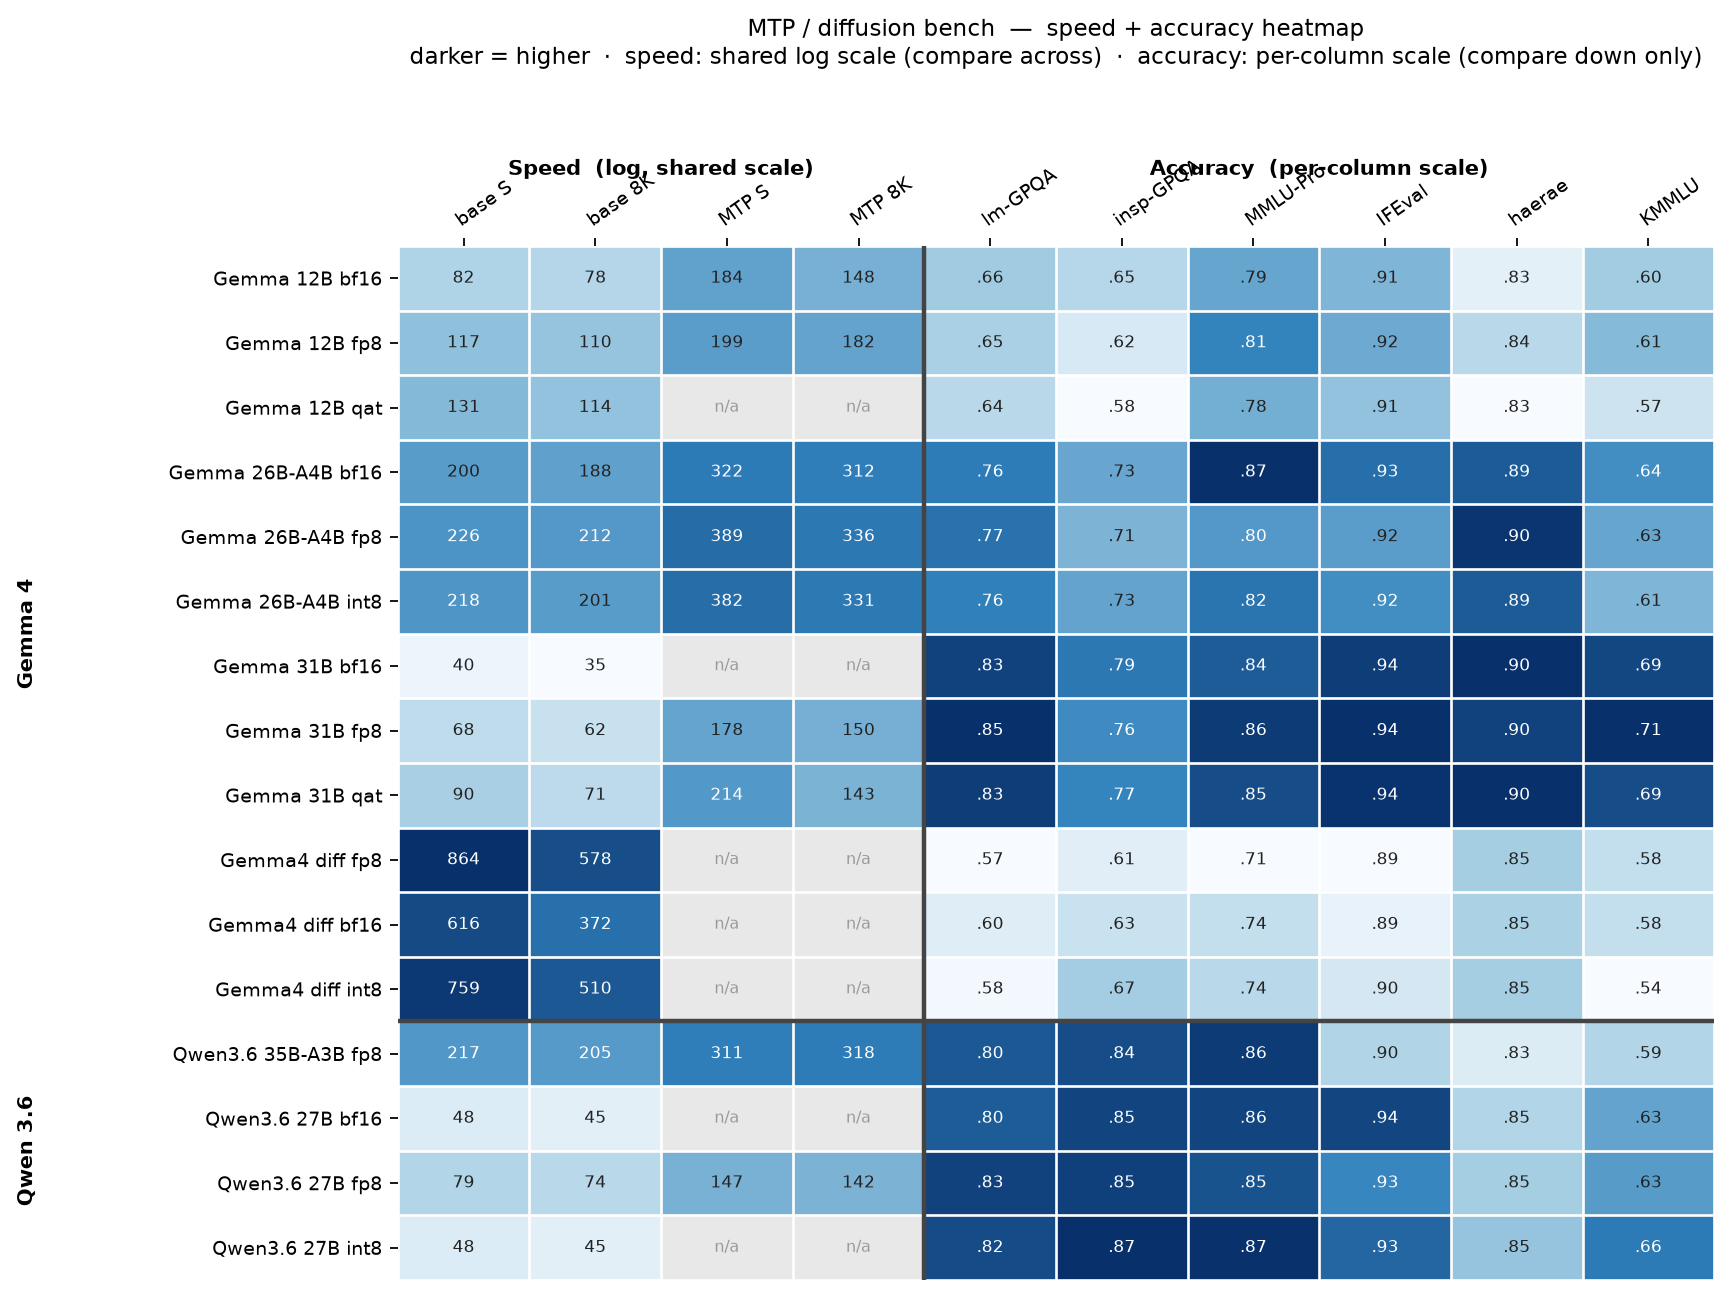
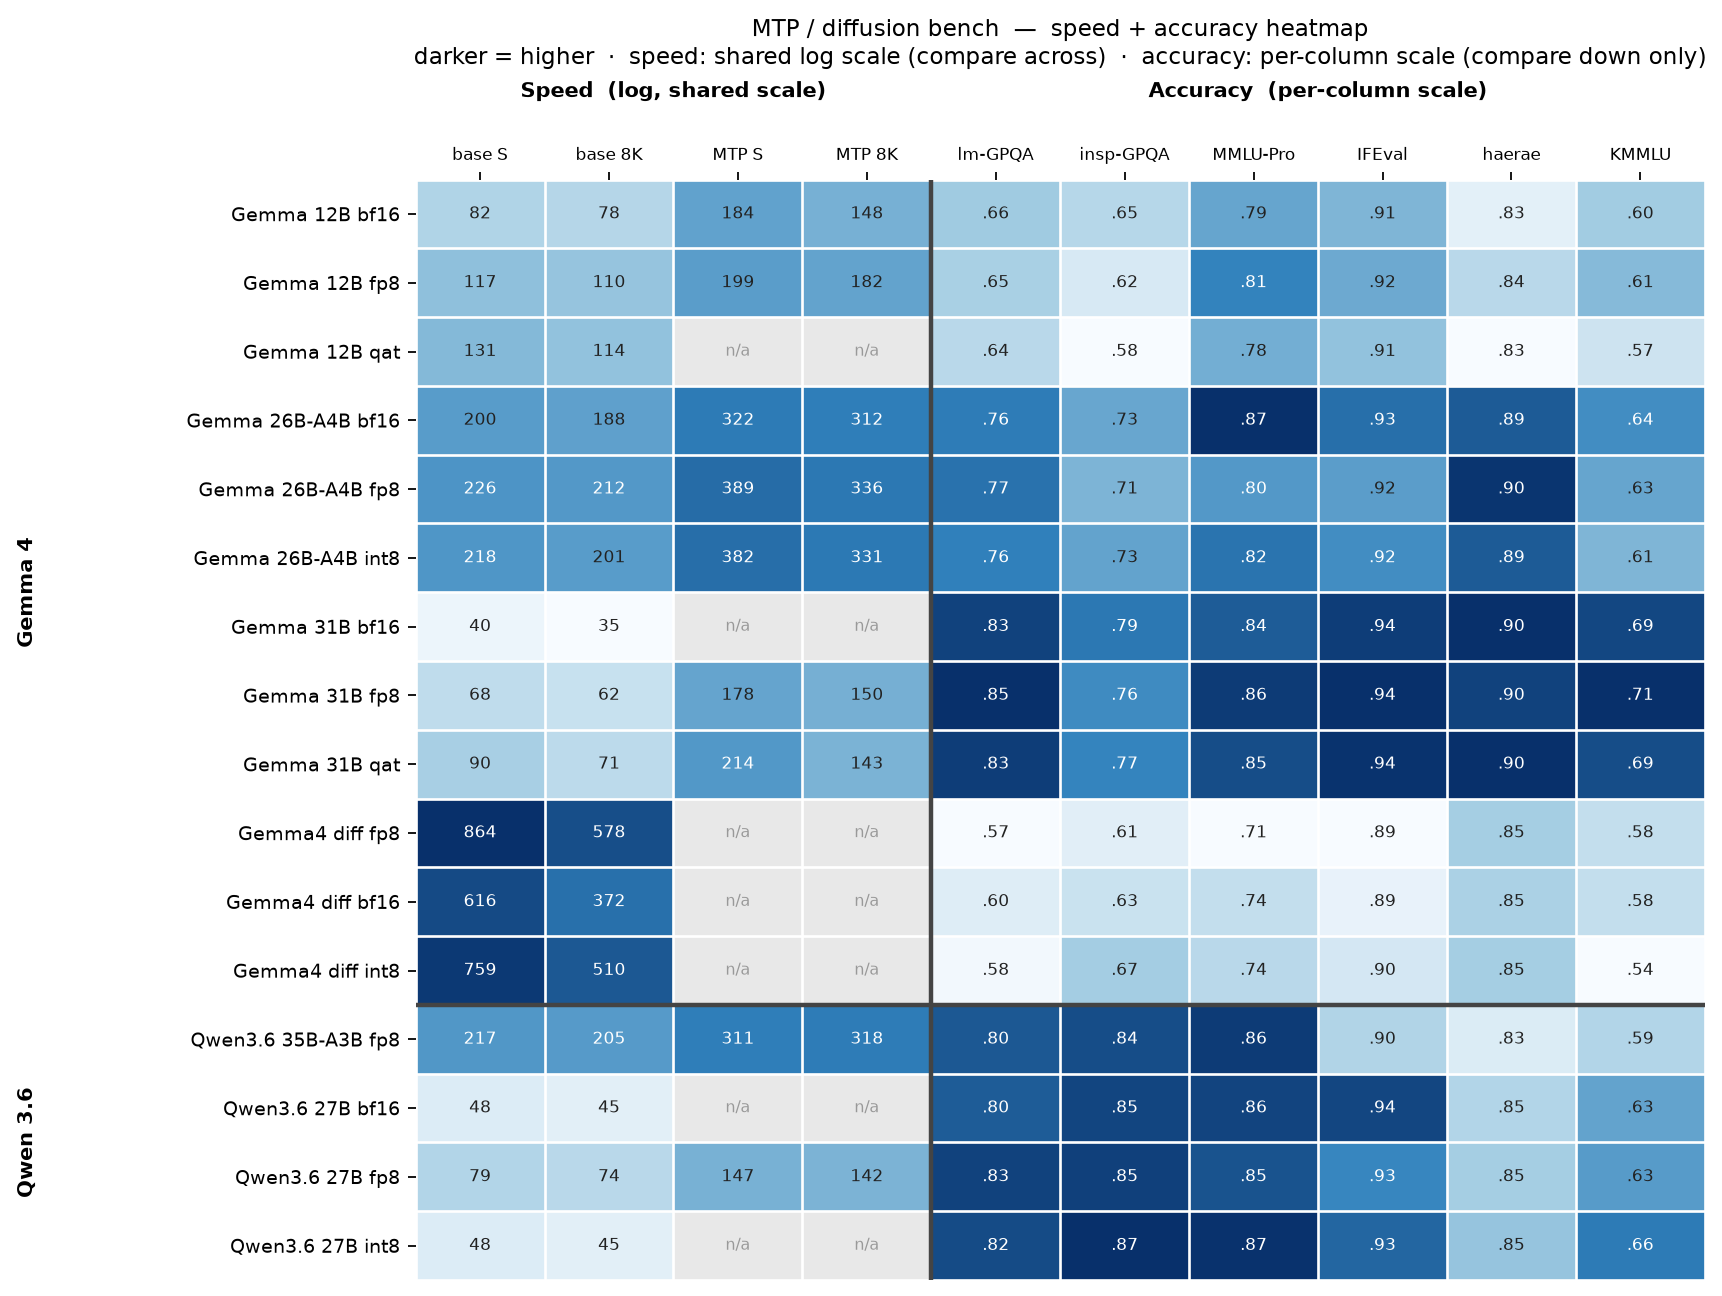
fix(heatmap): 상단 그룹 헤더-열 라벨 겹침 제거(열 라벨 수평화·헤더 여백 확보)

diff --git a/report/make_heatmap.py b/report/make_heatmap.py
@@ -83,20 +83,20 @@ for i in range(nrow):
                 color="white" if shade > 0.55 else "#222", fontsize=7.5)
 
 ax.set_xticks(range(ncol))
-ax.set_xticklabels(cols, fontsize=8.5)
+ax.set_xticklabels(cols, fontsize=7.8)
 ax.set_yticks(range(nrow))
 ax.set_yticklabels([r[0] for r in rows], fontsize=8.5)
 ax.tick_params(top=True, labeltop=True, bottom=False, labelbottom=False)
-plt.setp(ax.get_xticklabels(), rotation=35, ha="left", rotation_mode="anchor")
+plt.setp(ax.get_xticklabels(), rotation=0, ha="center")
 
 # 그룹 경계선: 속도|정확도(세로), Gemma|Qwen(가로)
 ax.axvline(3.5, color="#444", lw=2)
 ax.axhline(11.5, color="#444", lw=2)
-# 그룹 헤더
-ax.text(1.5, -1.6, "Speed  (log, shared scale)", ha="center", fontsize=9.5, weight="bold")
-ax.text(6.5, -1.6, "Accuracy  (per-column scale)", ha="center", fontsize=9.5, weight="bold")
-ax.text(-3.4, 5.5, "Gemma 4", rotation=90, va="center", fontsize=9.5, weight="bold")
-ax.text(-3.4, 13.5, "Qwen 3.6", rotation=90, va="center", fontsize=9.5, weight="bold")
+# 그룹 헤더 (수평 열 라벨 위로 충분히 띄움)
+ax.text(1.5, -1.7, "Speed  (log, shared scale)", ha="center", fontsize=9.5, weight="bold")
+ax.text(6.5, -1.7, "Accuracy  (per-column scale)", ha="center", fontsize=9.5, weight="bold")
+ax.text(-3.6, 5.5, "Gemma 4", rotation=90, va="center", fontsize=9.5, weight="bold")
+ax.text(-3.6, 13.5, "Qwen 3.6", rotation=90, va="center", fontsize=9.5, weight="bold")
 
 ax.set_xticks(np.arange(-0.5, ncol, 1), minor=True)
 ax.set_yticks(np.arange(-0.5, nrow, 1), minor=True)
@@ -108,7 +108,7 @@ for s in ax.spines.values():
 ax.set_title("MTP / diffusion bench  —  speed + accuracy heatmap\n"
              "darker = higher  ·  speed: shared log scale (compare across)  ·  "
              "accuracy: per-column scale (compare down only)",
-             fontsize=10.5, pad=42)
+             fontsize=10.5, pad=52)
 fig.tight_layout()
 out = "report/heatmap.png"
 fig.savefig(out, dpi=160, bbox_inches="tight", facecolor="white")